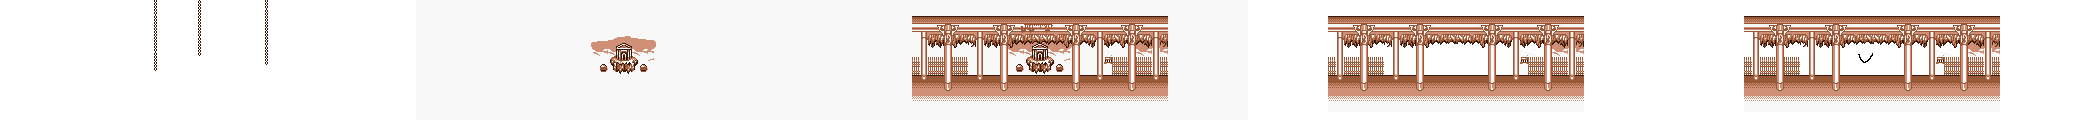
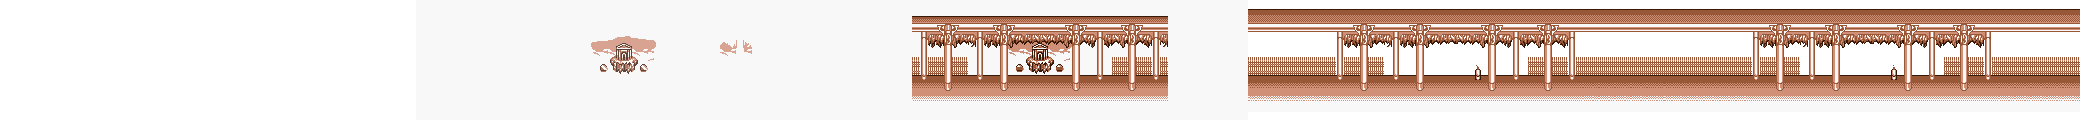
r

diff --git a/Game/CharSelectState.cpp b/Game/CharSelectState.cpp
@@ -9,6 +9,7 @@ CharSelectState::CharSelectState(Game* game) : BaseState(game), CharSelectScreen
     CharSelectScreen = game->asepriteManager->getAnimFile("charSelectScreen");
     CharSelectScreen->setFrameTag("charSelectScreen-Idle");
 
+
     playerTag = game->asepriteManager->getAnimFile("playerTags");
 }
 
@@ -48,6 +49,9 @@ void CharSelectState::Enter()
 void CharSelectState::Update(float deltaTime)
 {
     game->soundManager->updateBackgroundMusic(); // Update Music
+
+    // Update CharSelectScreen
+    CharSelectScreen->update(deltaTime);
 
     //handle input //todo: refactor this to inputHandler
     if (IsKeyPressed(KEY_ENTER))
@@ -115,7 +119,7 @@ void CharSelectState::Render()
     //----------------------------------------------------------------------------------
     // Draw to Screen
     //----------------------------------------------------------------------------------
-    ClearBackground(GREEN);
+    ClearBackground(Constants::RAYFIGHTER_LIGHTROSA);
     game->screen2DManager->beginDrawToScreen();
 
     // Draw RenderTexture to Screen

diff --git a/Constants.h b/Constants.h
@@ -27,8 +27,8 @@ const float INVINCIBLE_TIME = 1.0f; // time in seconds objects are invincible af
 const int FPS = 60;
 
 // 208 = middle of the screen, but x/y of the Fighters is taken in the upperleft Corner of the 32x32 Sprite
-const int PLAYER1_X = 0;   //128;
-const int PLAYER2_X = 380; //256;
+const int PLAYER1_X = 128; //128;
+const int PLAYER2_X = 256; //256;
 
 const Color GAMEOBJ_COLOR = YELLOW;  // used to specify the color of the debug rectangle
 const Vector2 GAMEOBJ_SIZE = {3, 3}; // used specify the size of the debug rectangle

diff --git a/main.cpp b/main.cpp
@@ -2,6 +2,7 @@
 #include "Game/Game.h"
 #include "Game/GameState.h"
 #include "Game/MenuState.h"
+#include "Game/StageSelectState.h"
 
 
 //------------------------------------------------------------------------------------
@@ -13,6 +14,7 @@ int main(void)
 
     game->ChangeState(std::make_unique<MenuState>(game));
     //game->ChangeState(std::make_unique<CharSelectState>(game));
+    //game->ChangeState(std::make_unique<StageSelectState>(game));
     //game->ChangeState(std::make_unique<GameState>(game));
 
 

diff --git a/Game/StageSelectState.cpp b/Game/StageSelectState.cpp
@@ -113,7 +113,7 @@ void StageSelectState::Render()
     //----------------------------------------------------------------------------------
     // Draw to Screen
     //----------------------------------------------------------------------------------
-    ClearBackground(GREEN);
+    ClearBackground(Constants::RAYFIGHTER_LIGHTROSA);
     game->screen2DManager->beginDrawToScreen();
 
     // Draw RenderTexture to Screen

diff --git a/Game/MenuState.cpp b/Game/MenuState.cpp
@@ -141,7 +141,7 @@ void MenuState::Render()
     //----------------------------------------------------------------------------------
     game->screen2DManager->beginDrawToScreen();
 
-    ClearBackground(GREEN);
+    ClearBackground(Constants::RAYFIGHTER_LIGHTROSA);
 
     // Draw RenderTexture to Screen
     game->screen2DManager->drawRenderTarget();
